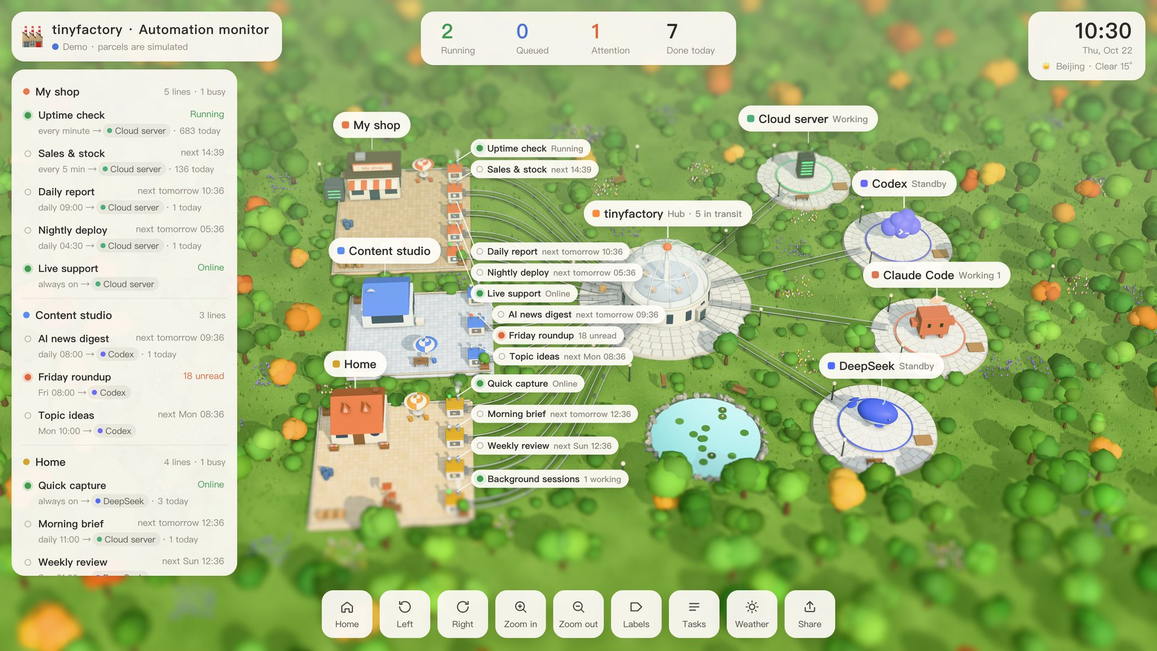
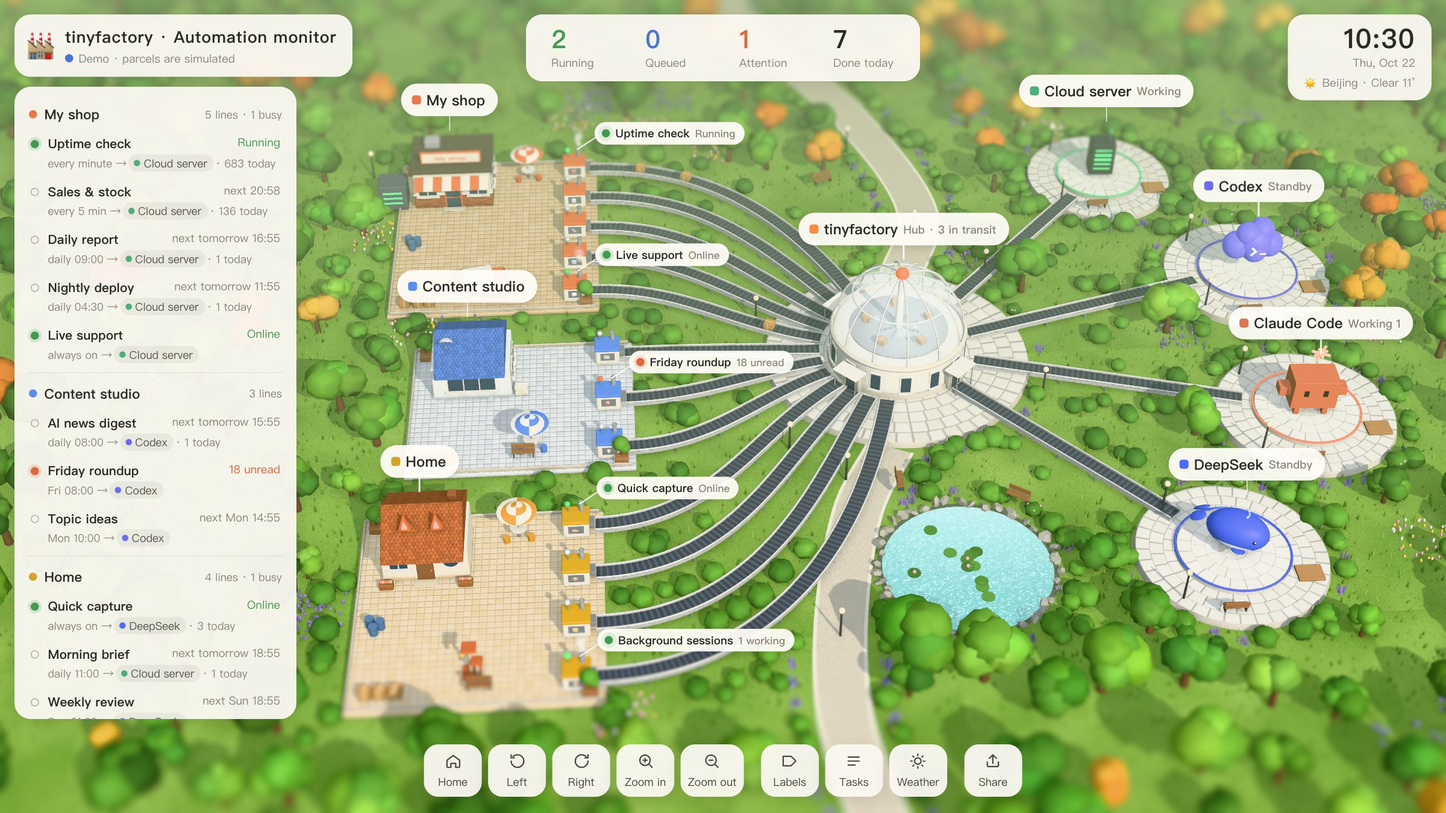
README media re-recorded; toolbar labels never wrap
- scripts/record.mjs runs the demo with an empty HOME (no personal
  title or city in the pictures), captures the GIF in real time through
  the browser's screencast, sorts frame timestamps, and encodes a
  smaller GIF (10 fps, ordered dither)
- Toolbar buttons grow with their label instead of wrapping it
  ("Zoom out" broke onto two lines in English); phones keep 44 px icons

diff --git a/web/style.css b/web/style.css
@@ -65,7 +65,7 @@ canvas#scene:active { cursor: grabbing; }
 .toolbar { position: fixed; bottom: 18px; left: 50%; transform: translateX(-50%); display: flex; gap: 7px; z-index: 10; }
 /* Three groups: camera · what's shown · share */
 .toolbar > button.group-end { margin-right: 12px; }
-.toolbar > button { width: 64px; height: 58px; border: 0; border-radius: 16px; background: var(--card); box-shadow: 0 6px 20px rgba(40, 30, 10, 0.13); display: flex; flex-direction: column; align-items: center; justify-content: center; gap: 4px; font-size: 12px; color: #4a463f; cursor: pointer; font-family: inherit; transition: transform 0.12s, background 0.2s; }
+.toolbar > button { min-width: 64px; padding: 0 8px; white-space: nowrap; height: 58px; border: 0; border-radius: 16px; background: var(--card); box-shadow: 0 6px 20px rgba(40, 30, 10, 0.13); display: flex; flex-direction: column; align-items: center; justify-content: center; gap: 4px; font-size: 12px; color: #4a463f; cursor: pointer; font-family: inherit; transition: transform 0.12s, background 0.2s; }
 .toolbar > button:hover { transform: translateY(-2px); background: #fffdf8; }
 .toolbar > button.off { color: #b0a99f; }
 .toolbar svg { width: 21px; height: 21px; }
@@ -128,7 +128,7 @@ canvas#scene:active { cursor: grabbing; }
   .panel { display: none; }
   body.sheet .panel { display: block; background: #fbf8f2; top: auto; left: 12px; right: 12px; bottom: 76px; width: auto; max-height: 56vh; z-index: 15; box-shadow: 0 -4px 30px rgba(40, 30, 10, 0.18); }
   .toolbar { bottom: 14px; gap: 7px; }
-  .toolbar > button { width: 44px; height: 44px; border-radius: 14px; }
+  .toolbar > button { width: 44px; min-width: 44px; padding: 0; height: 44px; border-radius: 14px; }
   .toolbar > button span, .toolbar > .wide-only { display: none; }
   .toolbar > button.group-end { margin-right: 6px; }
   .toolbar > button:hover { transform: none; }
